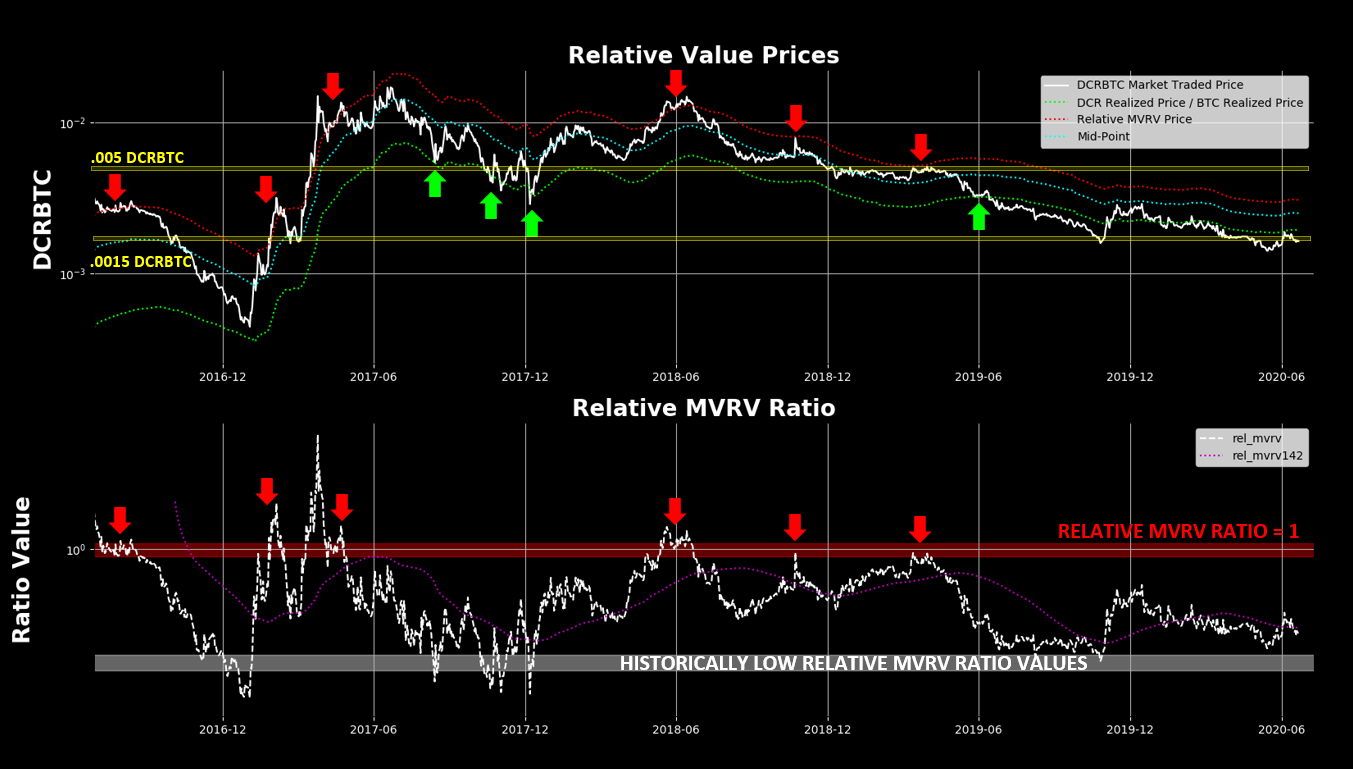
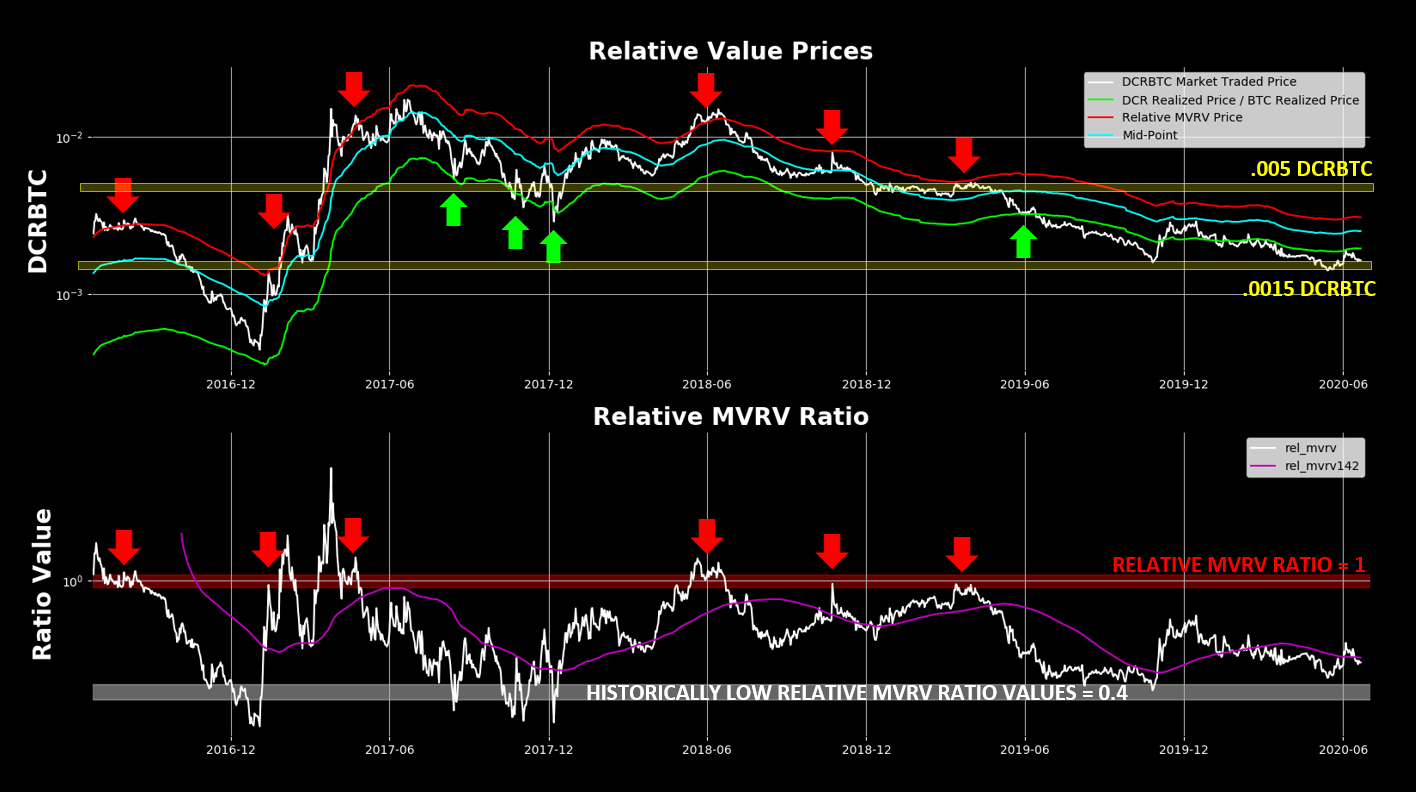
relative mvrv image changes

diff --git a/DCR/DCR_CM_2.11 - RELATIVE MVRV.py b/DCR/DCR_CM_2.11 - RELATIVE MVRV.py
@@ -11,7 +11,7 @@ cm = coinmetrics.Community()
 
 # PULL DCR & BTC NTV, MVRV, & REALIZED PRICE DATA "2016-08-14"
 
-asset = "ltc"
+asset = "dcr"
 asset2 = "btc"
 date_1 = "2014-01-01"
 date_2 = "2020-06-21"
@@ -85,11 +85,11 @@ fig.patch.set_facecolor('black')
 fig.patch.set_alpha(1)
 
 ax1 = plt.subplot(2,1,1)
-ax1.plot(df['date'], df['coin_coin1'], label='LTCBTC Market Traded Price', color='w')
-ax1.plot(df['date'], df['rel_real'], label='LTC Realized Price / BTC Realized Price', linestyle=':', color='lime')
-ax1.plot(df['date'], df['rel_mvrv_price'], label='Relative MVRV Price', linestyle=':', color='r')
-ax1.plot(df['date'], df['mid_point'], label='Mid-Point', linestyle=':', color='aqua')
-ax1.set_ylabel("LTCBTC", fontsize=20, fontweight='bold', color='w')
+ax1.plot(df['date'], df['coin_coin1'], label='DCRBTC Market Traded Price', color='w')
+ax1.plot(df['date'], df['rel_real'], label='DCR Realized Price / BTC Realized Price', color='lime')
+ax1.plot(df['date'], df['rel_mvrv_price'], label='Relative MVRV Price', color='r')
+ax1.plot(df['date'], df['mid_point'], label='Mid-Point', color='aqua')
+ax1.set_ylabel("DCRBTC", fontsize=20, fontweight='bold', color='w')
 ax1.set_facecolor('black')
 ax1.set_title("Relative Value Prices", fontsize=20, fontweight='bold', color='w')
 ax1.set_yscale('log')
@@ -98,13 +98,13 @@ ax1.grid()
 ax1.legend()
 
 ax2 = plt.subplot(2, 1, 2, sharex=ax1)
-ax2.plot(df['date'], df['rel_mvrv'], color='w', linestyle='dashed')
-ax2.plot(df['date'], df['rel_mvrv142'], linestyle=':', color='m')
+ax2.plot(df['date'], df['rel_mvrv'], color='w')
+ax2.plot(df['date'], df['rel_mvrv142'], color='m')
 ax2.set_facecolor('black')
 ax2.set_title("Relative MVRV Ratio", fontsize=20, fontweight='bold', color='w')
 ax2.set_ylabel("Ratio Value", fontsize=20, fontweight='bold', color='w')
 ax2.axhspan(1.05, 0.95, color='r', alpha=0.4)
-""" ax2.axhspan(.45, 0.4, color='w', alpha=0.4) """
+ax2.axhspan(.45, 0.4, color='w', alpha=0.4)
 ax2.legend()
 ax2.tick_params(color='w', labelcolor='w')
 ax2.set_yscale('log')

diff --git a/DCR/DCR_CM_2.4 - HODL POWER.py b/DCR/DCR_CM_2.4 - HODL POWER.py
@@ -65,7 +65,7 @@ fig, ax1 = plt.subplots()
 fig.patch.set_facecolor('black')
 fig.patch.set_alpha(1)
 
-""" ax1 = plt.subplot(1,1,1)
+ax1 = plt.subplot(2,1,1)
 ax1.plot(df['date'], df['dcrmcap'], color='w', label='Market Cap')
 ax1.plot(df['date'], df['dcrreal'], color='aqua', label='Realized Cap')
 ax1.plot(df['date'], df['upcap'], color='red', label='Full HODL Power')
@@ -78,9 +78,9 @@ ax1.tick_params(color='w', labelcolor='w')
 ax1.grid()
 ax1.legend(edgecolor='w')
 ax1.get_yaxis().set_major_formatter(
-    mpl.ticker.FuncFormatter(lambda x, p: format(int(x), ','))) """
+    mpl.ticker.FuncFormatter(lambda x, p: format(int(x), ',')))
 
-ax2 = plt.subplot(1,1,1, sharex=ax1)
+ax2 = plt.subplot(2,1,2, sharex=ax1)
 ax2.plot(df['date'], df['dcrmvrv'], color='w', label='MVRV Ratio')
 ax2.plot(df['date'], df['mvrvup'], color='red', label='Full HODL Factor')
 ax2.plot(df['date'], df['mvrvdown'], color='lime', label='Realized Float Factor')
@@ -97,7 +97,5 @@ ax3.plot(df['date'], df['adjpart'], color='w', alpha=0.5, linestyle=':')
 ax3.set_ylabel("Stake Participation", fontsize=20, fontweight='bold', color='w')
 ax3.tick_params(color='w', labelcolor='w')
 ax3.legend(loc='upper left')
-
-
 
 plt.show()
